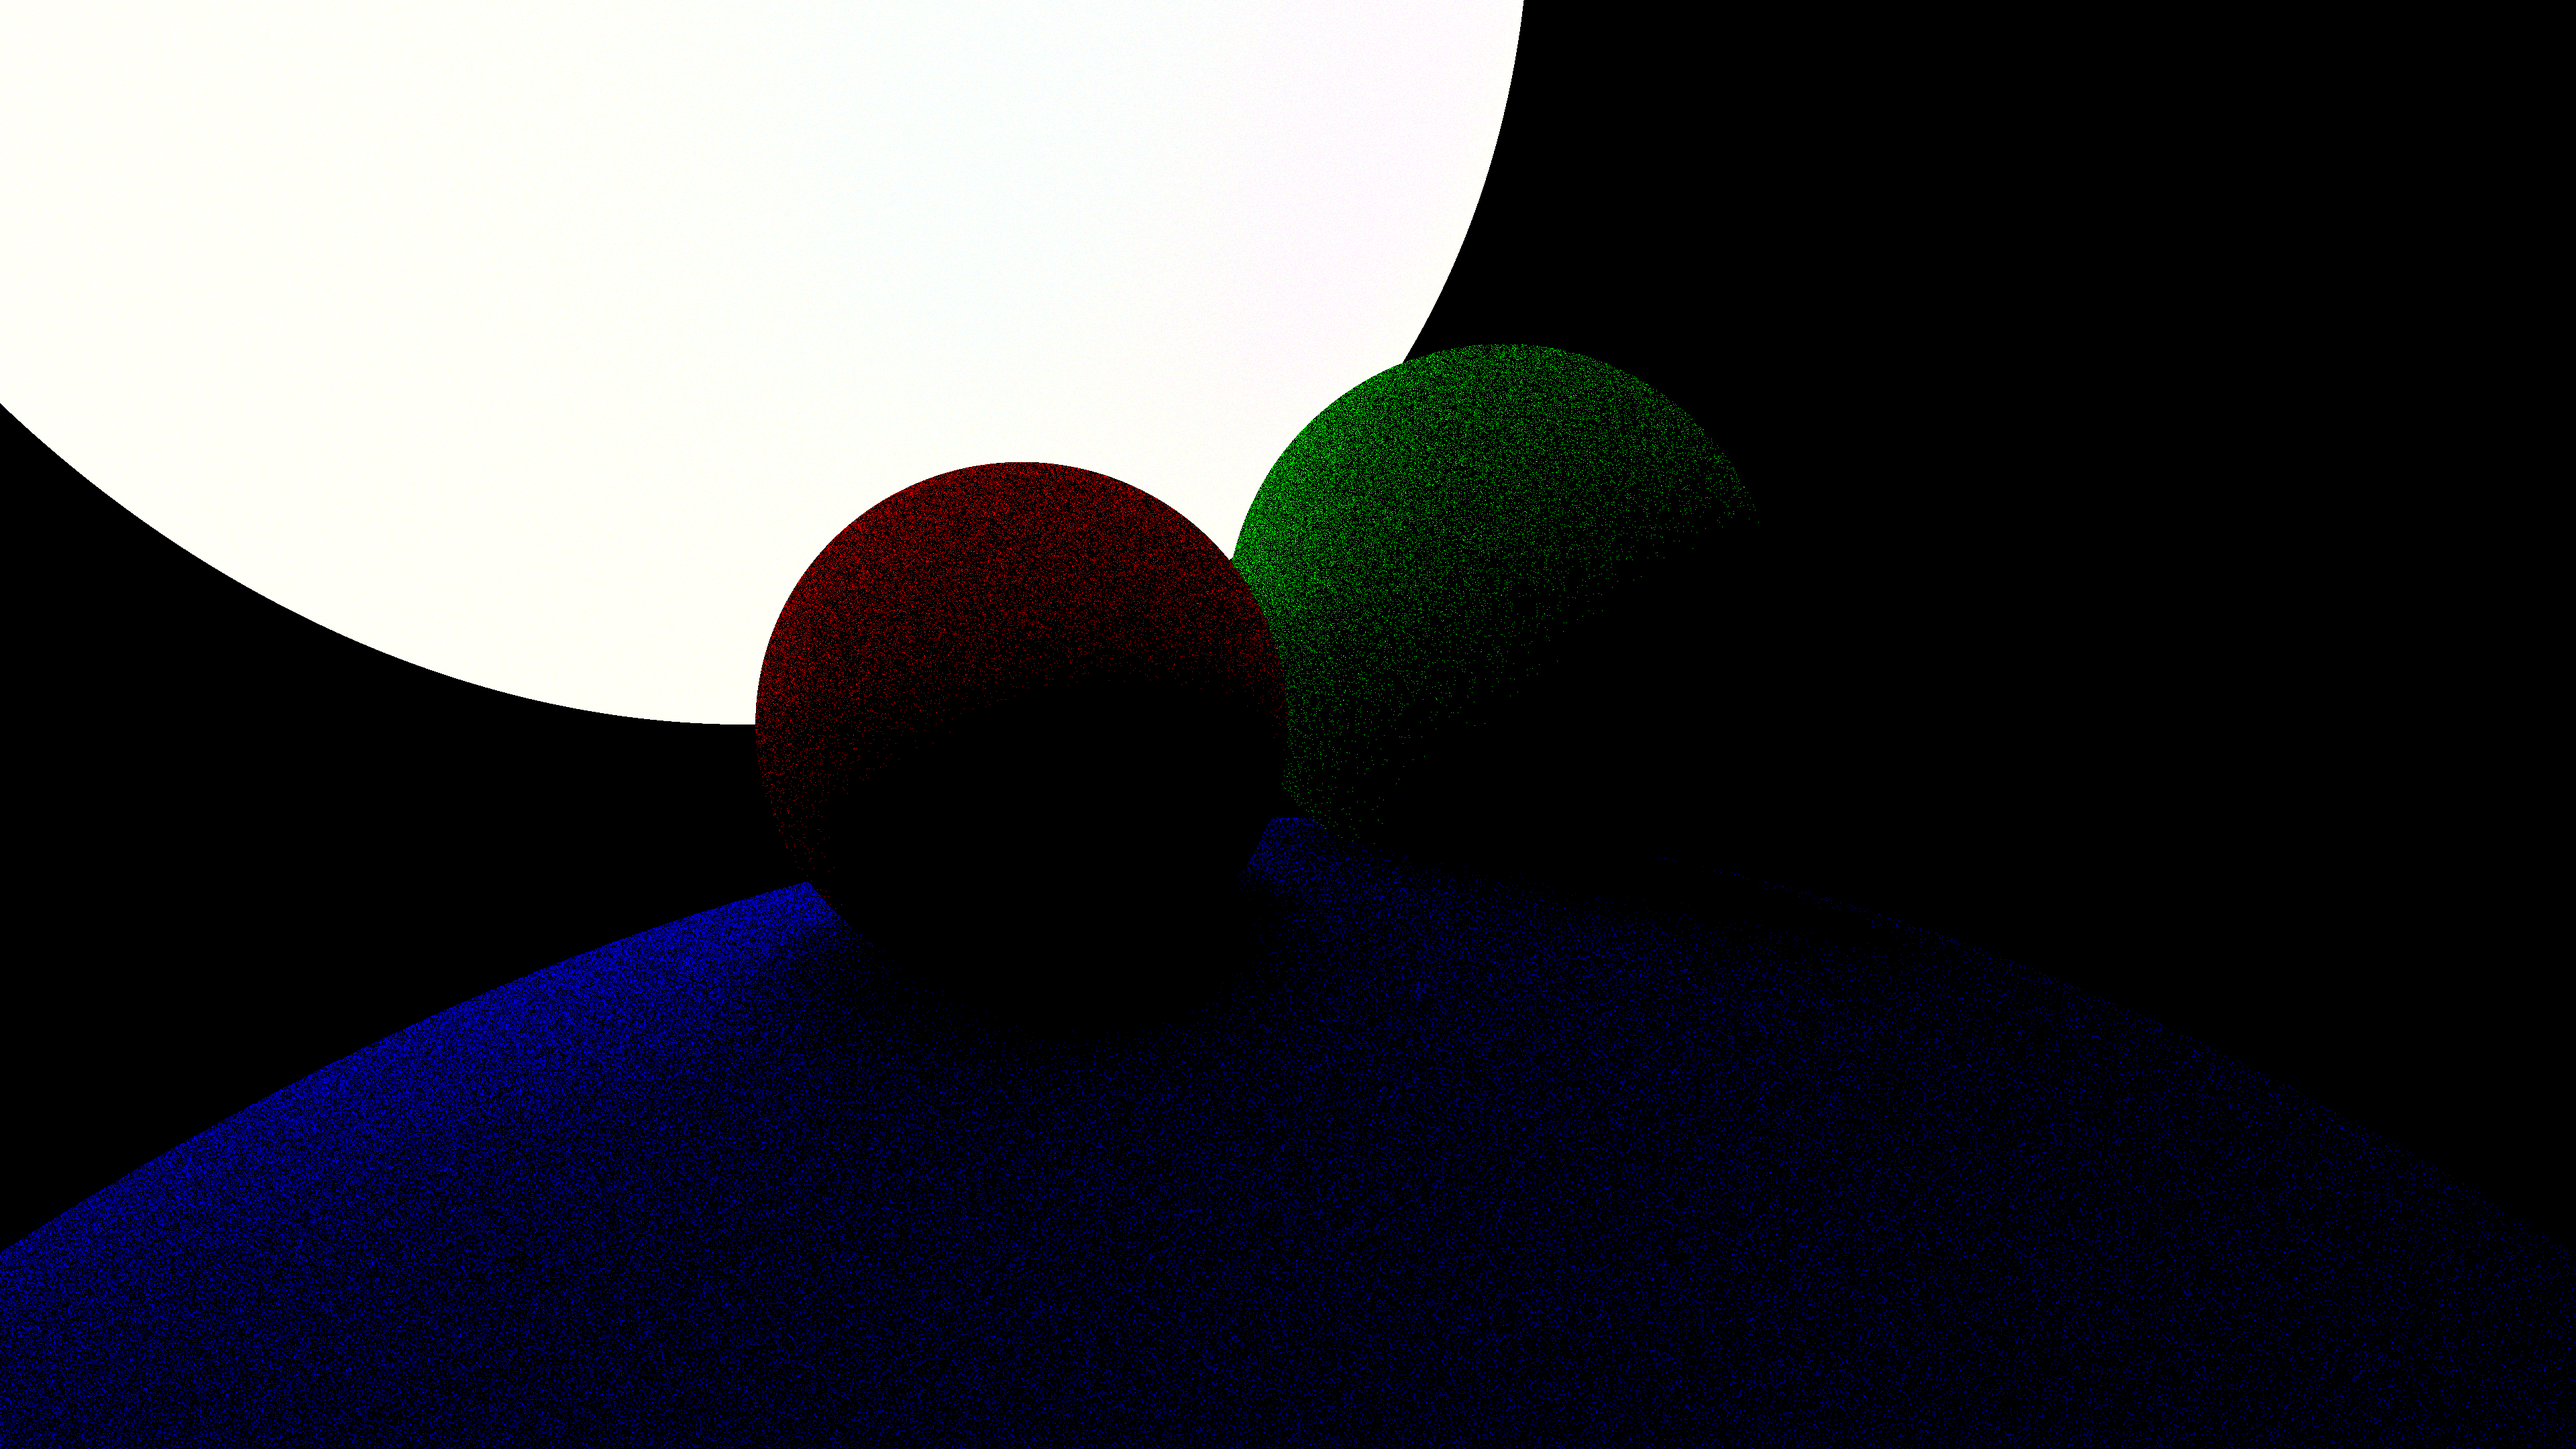
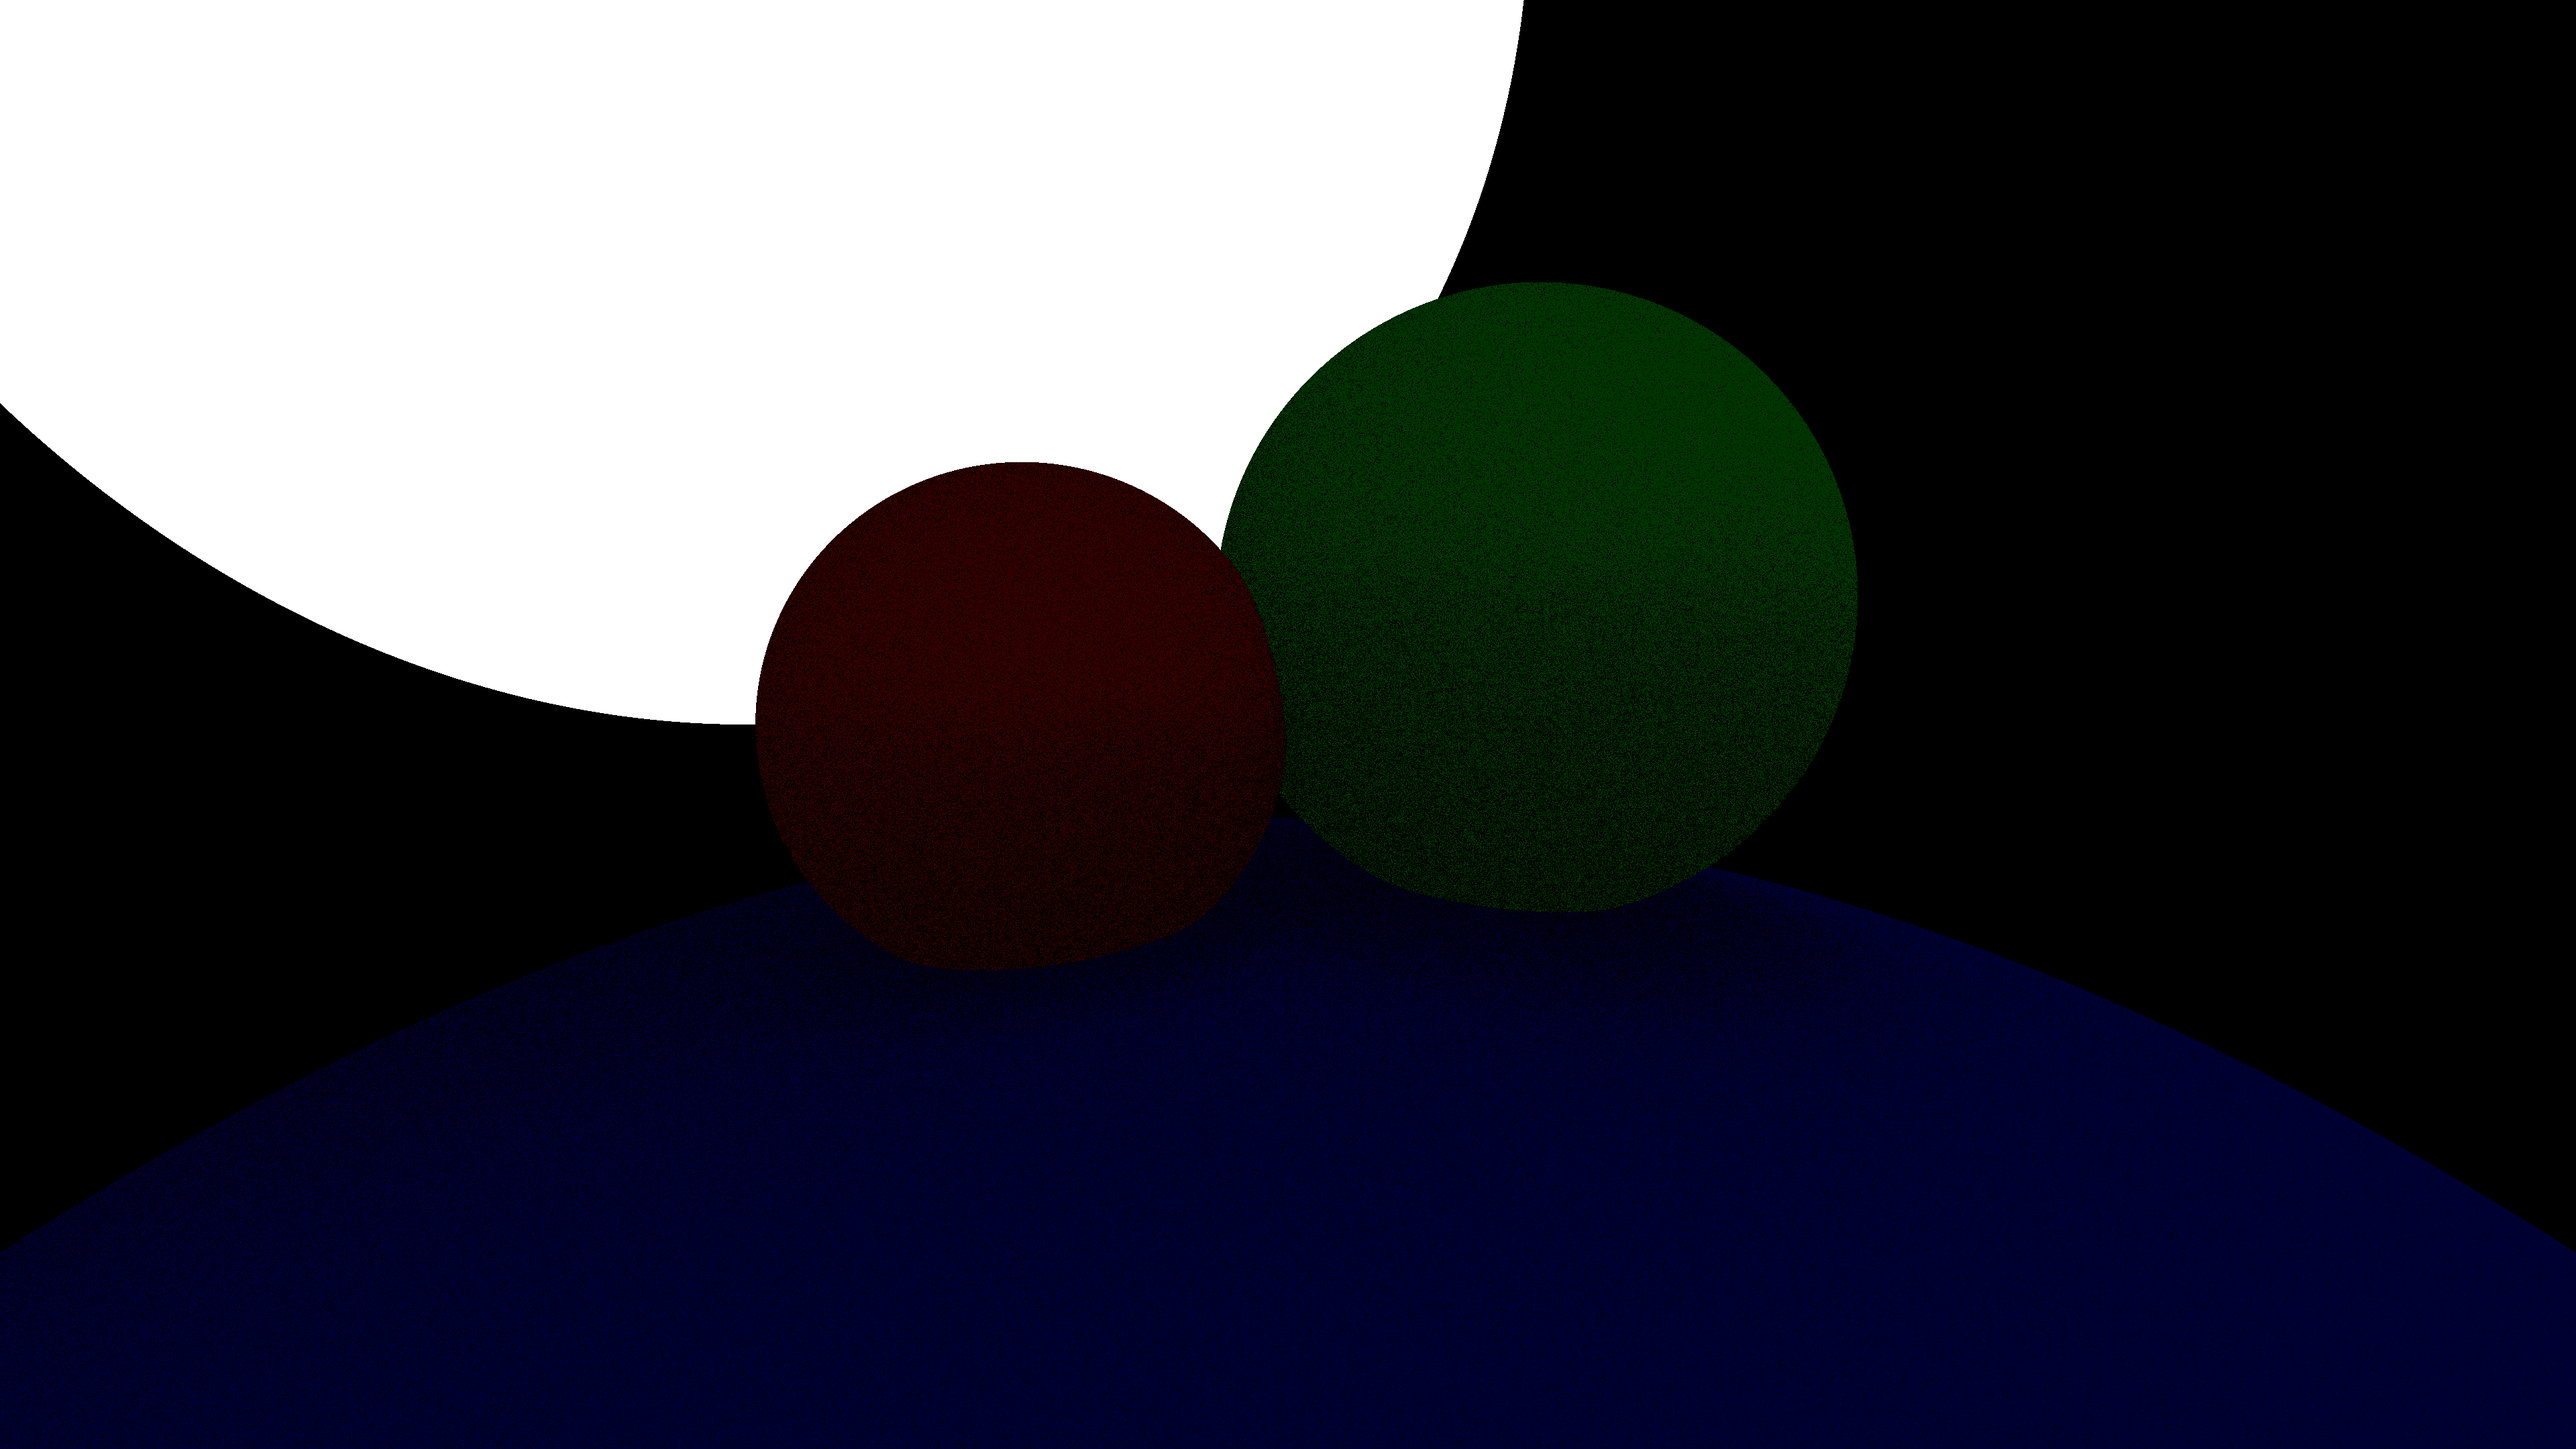
feat(camera): add temporary ambiant light

diff --git a/core/types/rendering/Camera.cpp b/core/types/rendering/Camera.cpp
@@ -89,20 +89,23 @@ Math::HitInfo Camera::_computeRayCollision(const Math::Ray& ray, std::vector<IOb
 
 Graphics::Color Camera::_getIncomingLight(Math::Ray &ray, unsigned int rngState, std::vector<IObject::Ptr> &objects) {
     Common::Graphics::Color incomingLight(0, 0, 0);
-    Common::Graphics::Color rayColour(255, 255, 255);
+    Common::Graphics::Color rayColour(1, 1, 1);
 
-    for (int i = 0; i < 30; i++) {
+    for (int i = 0; i <= 30; i++) {
         auto hitConfig = this->_computeRayCollision(ray, objects);
         if (hitConfig.didHit) {
             ray.origin = hitConfig.hitPoint;
             ray.direction = this->_getRandomDirection(hitConfig.normal, rngState);
 
-            Common::Graphics::Color emittedLight = hitConfig.hitColor.color * (hitConfig.hitColor.emissionStrength / 100); // Change to emissionColor
+            Common::Graphics::Color emittedLight = hitConfig.hitColor.emissionColor * hitConfig.hitColor.emissionStrength;
             Common::Graphics::Color localIncomingLight = emittedLight * rayColour;
 
             incomingLight += localIncomingLight;
             rayColour *= hitConfig.hitColor.color;
         } else {
+            Common::Graphics::Color ambientLight = rayColour * 0.2f;
+            incomingLight += ambientLight;
+
             break;
         }
     }

diff --git a/core/app/cli/Handler.cpp b/core/app/cli/Handler.cpp
@@ -43,10 +43,10 @@ int Handler::run() {
             0
     );
     std::shared_ptr<Common::Graphics::Material> light = std::make_shared<Common::Graphics::Material>(
+            Common::Graphics::Color(0, 0, 0),
             Common::Graphics::Color(255, 255, 255),
             Common::Graphics::Color(255, 255, 255),
-            Common::Graphics::Color(255, 255, 255),
-            100.0f
+            1.0f
     );
 
     auto objectProvider = dlloader.loadSymbol<Common::ObjectProviderGetter>(SHARED_STRINGIFY(OBJECT_PROVIDER_GETTER_NAME));
@@ -65,8 +65,8 @@ int Handler::run() {
 
     objects.push_back(objectProvider()->create(light, Common::Math::Point3D(-35, 100, 80), 50.0f));
     objects.push_back(objectProvider()->create(purple, Common::Math::Point3D(0, 80, -75), 100.0f));
+    objects.push_back(objectProvider()->create(green, Common::Math::Point3D(10, 65, 35), 13.0f));
     objects.push_back(objectProvider()->create(red, Common::Math::Point3D(-10, 60, 30), 10.0f));
-    objects.push_back(objectProvider()->create(green, Common::Math::Point3D(10, 75, 35), 13.0f));
 
     camera.compute(COMPUTE_THREADS, objects);
 

diff --git a/common/types/math/HitInfo.hpp b/common/types/math/HitInfo.hpp
@@ -17,8 +17,10 @@ namespace Raytracer::Common::Math {
     typedef struct HitColor {
         /// @brief Color of the hit
         Graphics::Color color;
-        /// @brief Emission color of the hit
+        /// @brief Emission strength of the hit
         float emissionStrength;
+        /// @brief Emission color of the hit
+        Graphics::Color emissionColor;
     } HitColor;
 
     /// @brief Represent an HitInfo between a ray and a shape
@@ -34,7 +36,8 @@ namespace Raytracer::Common::Math {
         /// @brief Color of the hit
         HitColor hitColor = {
             .color = Graphics::Color(0, 0, 0),
-            .emissionStrength = 0
+            .emissionStrength = 0,
+            .emissionColor = Graphics::Color(0, 0, 0),
         };
     } HitInfo;
 }

diff --git a/common/types/graphics/Color.cpp b/common/types/graphics/Color.cpp
@@ -45,10 +45,14 @@ Graphics::Color Graphics::Color::operator*(float scalar) const {
 Graphics::Color Graphics::Color::operator*(Graphics::Color &other) const {
     Color result;
 
-    result.r = (this->r * other.r) / 255;
-    result.g = (this->g * other.g) / 255;
-    result.b = (this->b * other.b) / 255;
+    result.r = this->r * other.r;
+    result.g = this->g * other.g;
+    result.b = this->b * other.b;
     result.a = this->a;
+
+    if (result.r > 255) result.r = 255;
+    if (result.g > 255) result.g = 255;
+    if (result.b > 255) result.b = 255;
     return result;
 }
 

diff --git a/objects/sphere/src/Sphere.cpp b/objects/sphere/src/Sphere.cpp
@@ -43,7 +43,8 @@ Raytracer::Common::Math::HitInfo Raytracer::Objects::Sphere::computeCollision(co
     hitInfo.normal = (hitInfo.hitPoint - _position).normalize();
     hitInfo.hitColor = {
         .color = _material->color,
-        .emissionStrength = _material->emissionStrength
+        .emissionStrength = _material->emissionStrength,
+        .emissionColor = _material->emissionColor
     };
     return hitInfo;
 }
